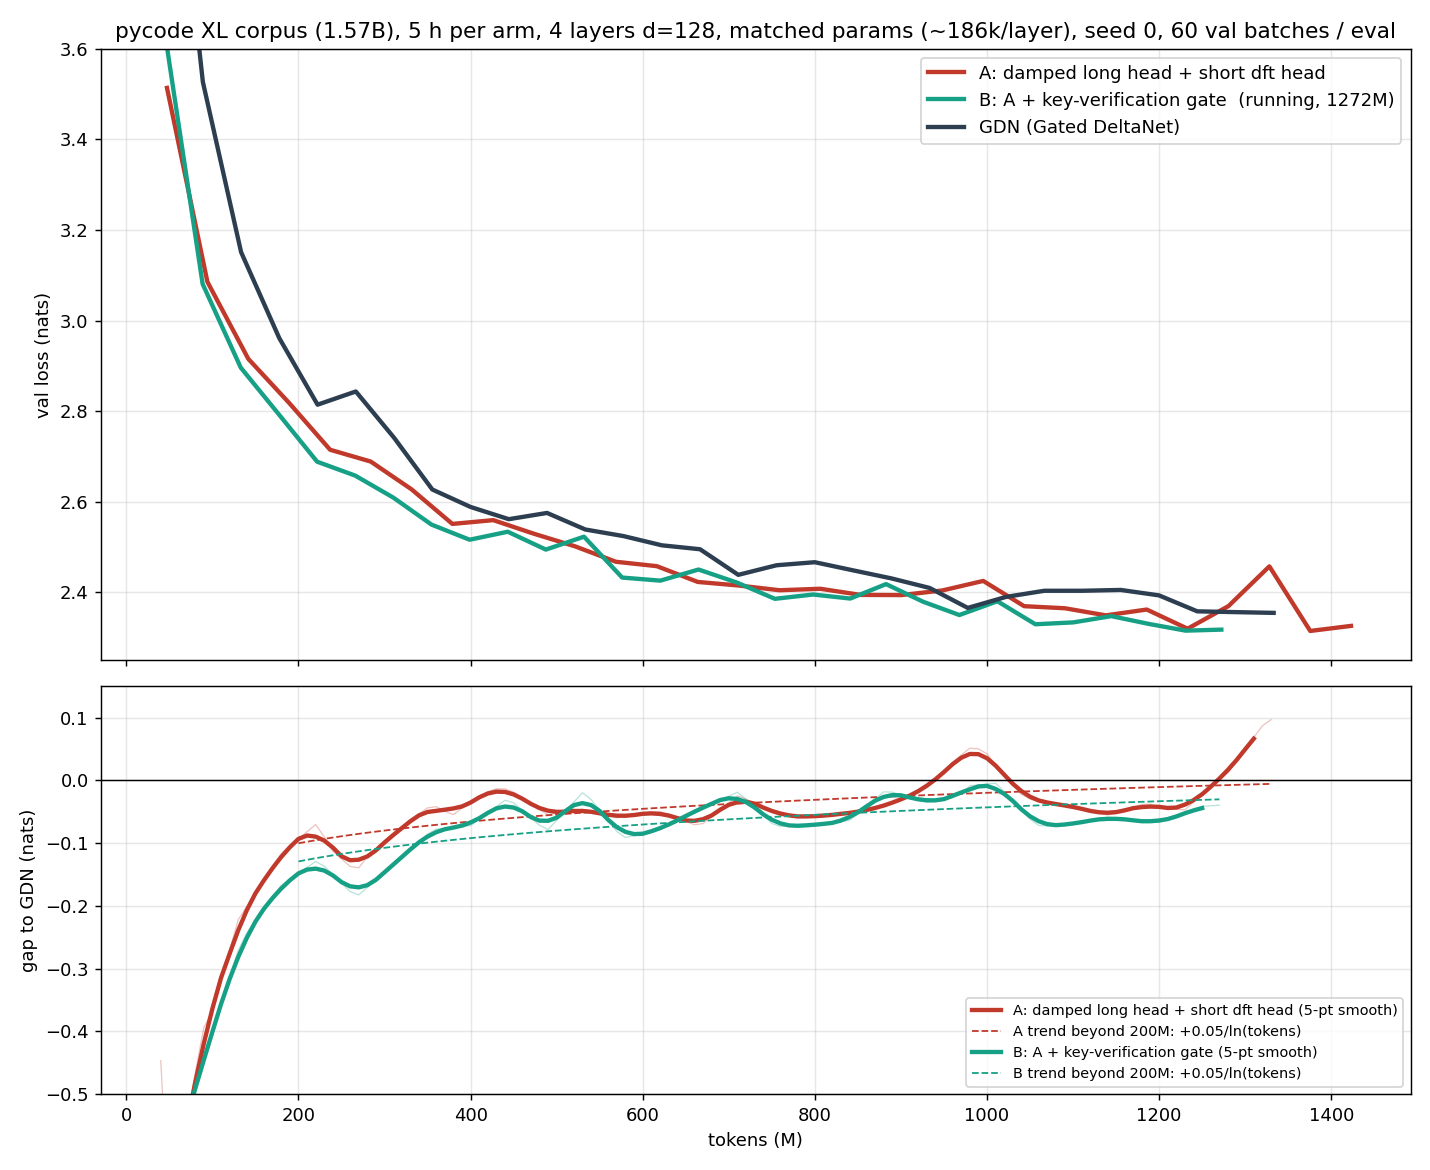
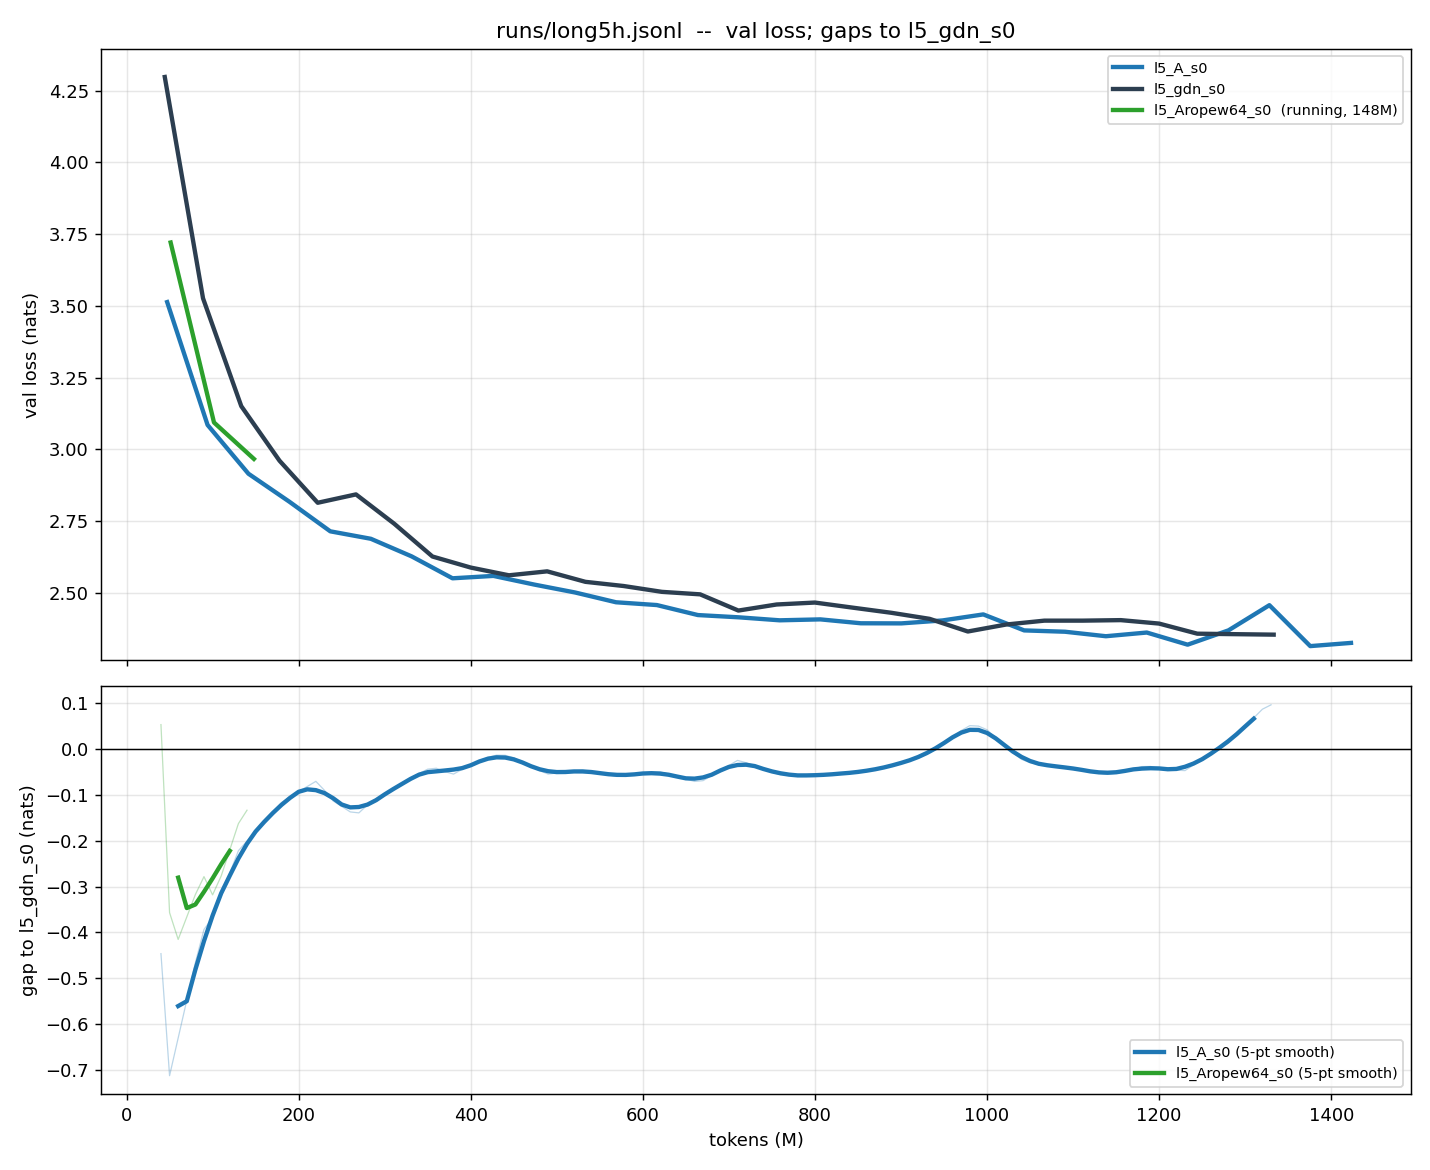
plot_lm.py: generic LM curve/gap plotter

diff --git a/plot_lm.py b/plot_lm.py
@@ -1,0 +1,80 @@
+"""Val-loss curves and gap-to-reference for pretrain.py JSONL logs. Generic: every label
+in the log is drawn unless hidden; the reference arm is the one the gaps are taken to.
+
+    python plot_lm.py runs/long5h.jsonl --ref l5_gdn_s0 --out plot/long5h.png
+    python plot_lm.py runs/long5h.jsonl --ref l5_gdn_s0 --hide l5_B_s0 --bold l5_Aropew64_s0
+    python plot_lm.py runs/catchup.jsonl --ref catch_gdn_s0 --only catch_gen3_s0,catch_shortdamp_s0
+
+Also prints, per arm, the median gap to the reference over the last 25% of the shared
+token range and the gap's slope vs ln(tokens) beyond 200M (the crossover diagnostic).
+"""
+import argparse, collections, json, math, sys
+import numpy as np
+import matplotlib
+matplotlib.use("Agg")
+import matplotlib.pyplot as plt
+
+
+def load(path):
+    C = collections.OrderedDict()
+    for l in open(path):
+        r = json.loads(l)
+        C.setdefault(r["model"], []).append((r["tokens"], r["val"]))
+    return {k: sorted(v) for k, v in C.items()}
+
+
+def ip(c, x):
+    if x < c[0][0] or x > c[-1][0]:
+        return None
+    for i in range(1, len(c)):
+        if c[i][0] >= x:
+            (x0, y0), (x1, y1) = c[i - 1], c[i]
+            return y0 + (y1 - y0) * (x - x0) / max(x1 - x0, 1)
+
+
+def main(argv=None):
+    p = argparse.ArgumentParser()
+    p.add_argument("log"); p.add_argument("--ref", required=True)
+    p.add_argument("--out", default=None); p.add_argument("--hide", default=""); p.add_argument("--only", default="")
+    p.add_argument("--bold", default="", help="labels drawn thick (default: ref and the newest arm)")
+    p.add_argument("--ymax", type=float, default=None)
+    a = p.parse_args(argv)
+    C = load(a.log)
+    if a.ref not in C:
+        sys.exit(f"ref {a.ref!r} not in log; labels: {list(C)}")
+    hide = [h for h in a.hide.split(",") if h]; only = [o for o in a.only.split(",") if o]
+    labels = [k for k in C if (not only or k in only or k == a.ref) and not any(h in k for h in hide)]
+    bold = set(b for b in a.bold.split(",") if b) or {a.ref, labels[-1]}
+    G = C[a.ref]
+    out = a.out or f"plot/{a.log.split('/')[-1].split('.')[0]}.png"
+    fig, (ax1, ax2) = plt.subplots(2, 1, figsize=(11, 9), sharex=True, gridspec_kw={"height_ratios": [3, 2]})
+    cmap = plt.get_cmap("tab10")
+    print(f"{'arm':>20} {'tokens':>7} {'val':>7} | {'gap to '+a.ref:>18} {'slope/ln(tok) >200M':>20}")
+    for j, k in enumerate(labels):
+        c = C[k]; x = np.array([t for t, _ in c]) / 1e6; y = np.array([v for _, v in c])
+        lw = 2.4 if k in bold else 1.0; col = "#2c3e50" if k == a.ref else cmap(j % 10)
+        done = c[-1][0] >= 0.95 * G[-1][0]
+        ax1.plot(x[1:], y[1:], color=col, lw=lw, alpha=1 if lw > 1.5 else 0.75,
+                 label=k + ("" if done else f"  (running, {c[-1][0]/1e6:.0f}M)"))
+        if k == a.ref:
+            print(f"{k:>20} {c[-1][0]/1e6:6.0f}M {c[-1][1]:7.4f} | {'(reference)':>18}"); continue
+        hi = min(c[-1][0], G[-1][0])
+        if hi < 60e6: continue
+        xs = np.arange(40e6, hi + 1, 10e6); g = np.array([ip(c, v) - ip(G, v) for v in xs])
+        ax2.plot(xs / 1e6, g, color=col, lw=0.7, alpha=0.3)
+        if len(g) >= 5:
+            ax2.plot(xs[2:-2] / 1e6, np.convolve(g, np.ones(5) / 5, "valid"), color=col, lw=lw, label=k + " (5-pt smooth)")
+        last = xs >= hi - 0.25 * (hi - 40e6)
+        m = xs >= 200e6
+        slope = np.polyfit(np.log(xs[m]), g[m], 1)[0] if m.sum() >= 4 else float("nan")
+        print(f"{k:>20} {c[-1][0]/1e6:6.0f}M {c[-1][1]:7.4f} | median {np.median(g[last]):+.4f} (last 25%)  {slope:+.3f}")
+    ax1.set_ylabel("val loss (nats)"); ax1.grid(alpha=.3); ax1.legend(fontsize=8)
+    if a.ymax: ax1.set_ylim(top=a.ymax)
+    ax1.set_ylim(bottom=min(min(v for _, v in C[k][3:]) for k in labels) - 0.05)
+    ax1.set_title(f"{a.log}  --  val loss; gaps to {a.ref}")
+    ax2.axhline(0, color="k", lw=0.8); ax2.set_xlabel("tokens (M)"); ax2.set_ylabel(f"gap to {a.ref} (nats)"); ax2.grid(alpha=.3); ax2.legend(fontsize=8)
+    plt.tight_layout(); plt.savefig(out, dpi=130); print("saved", out)
+
+
+if __name__ == "__main__":
+    main()
